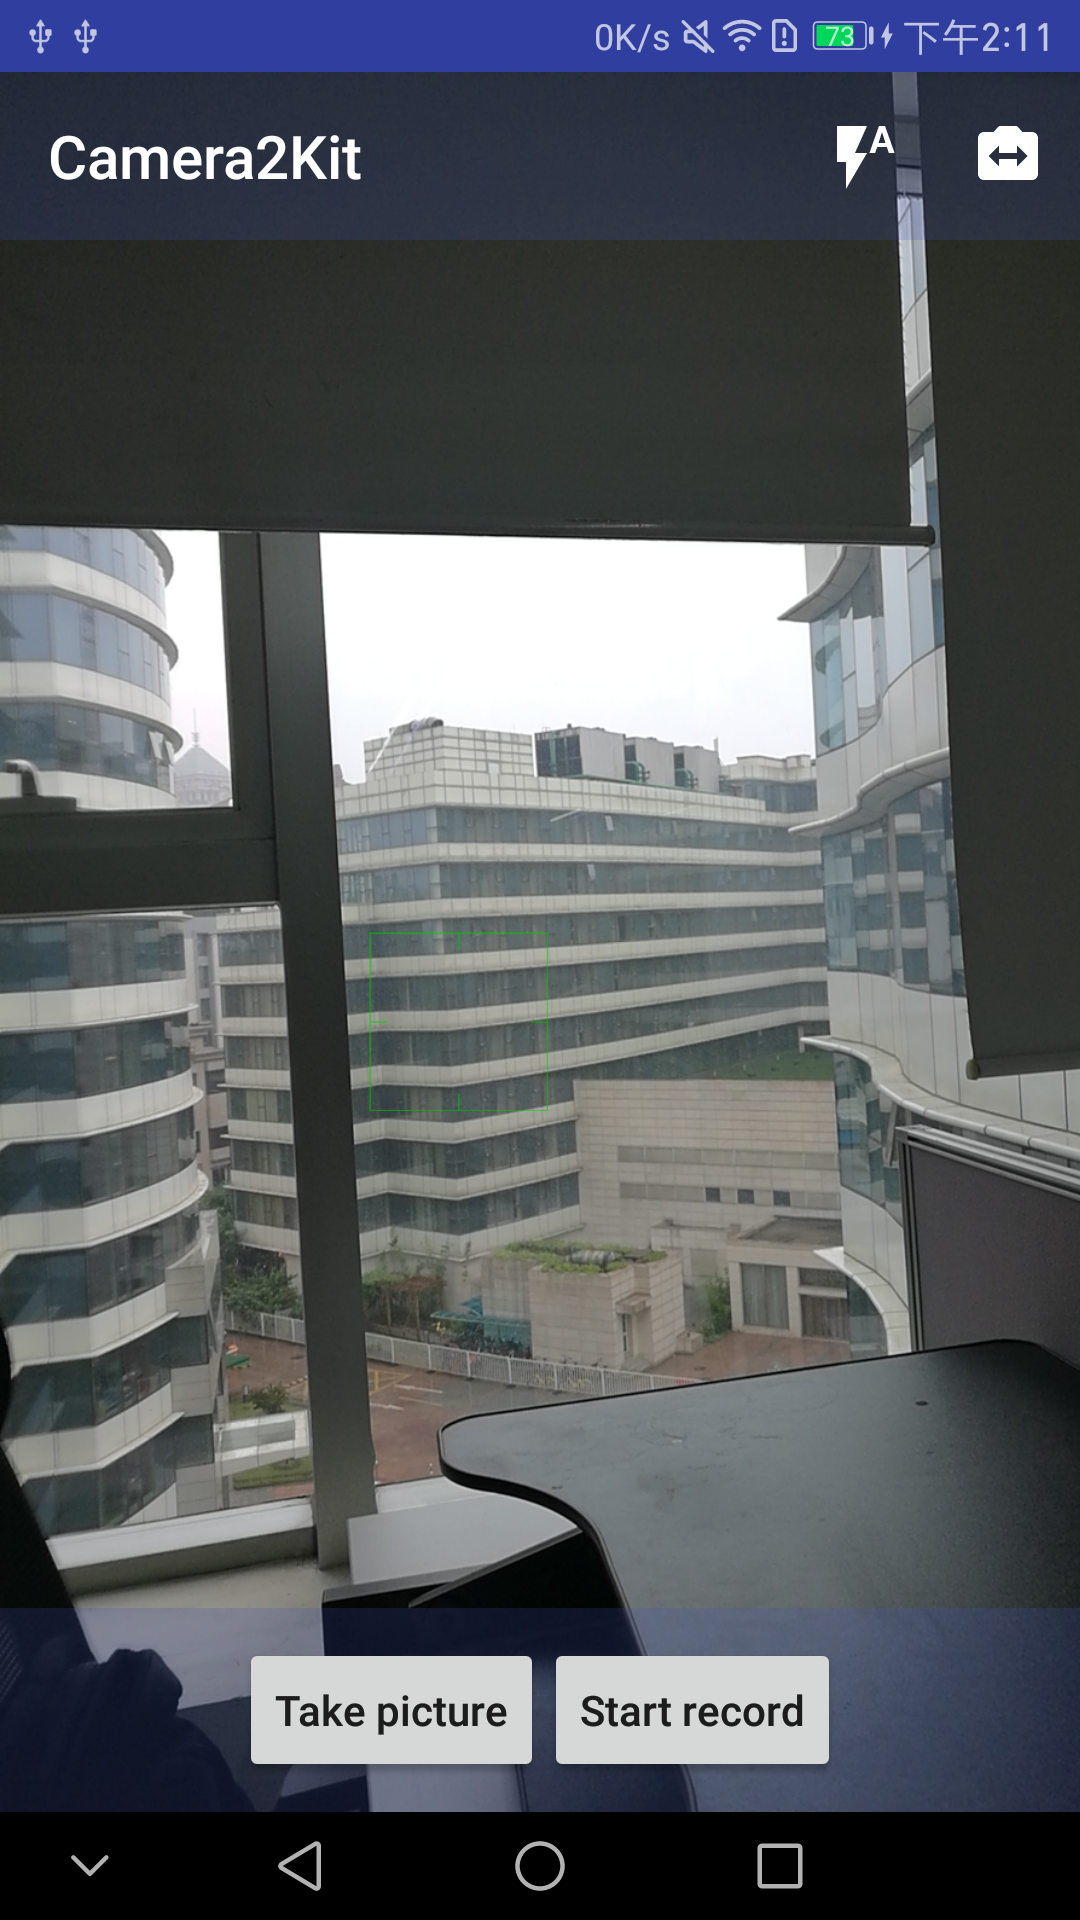
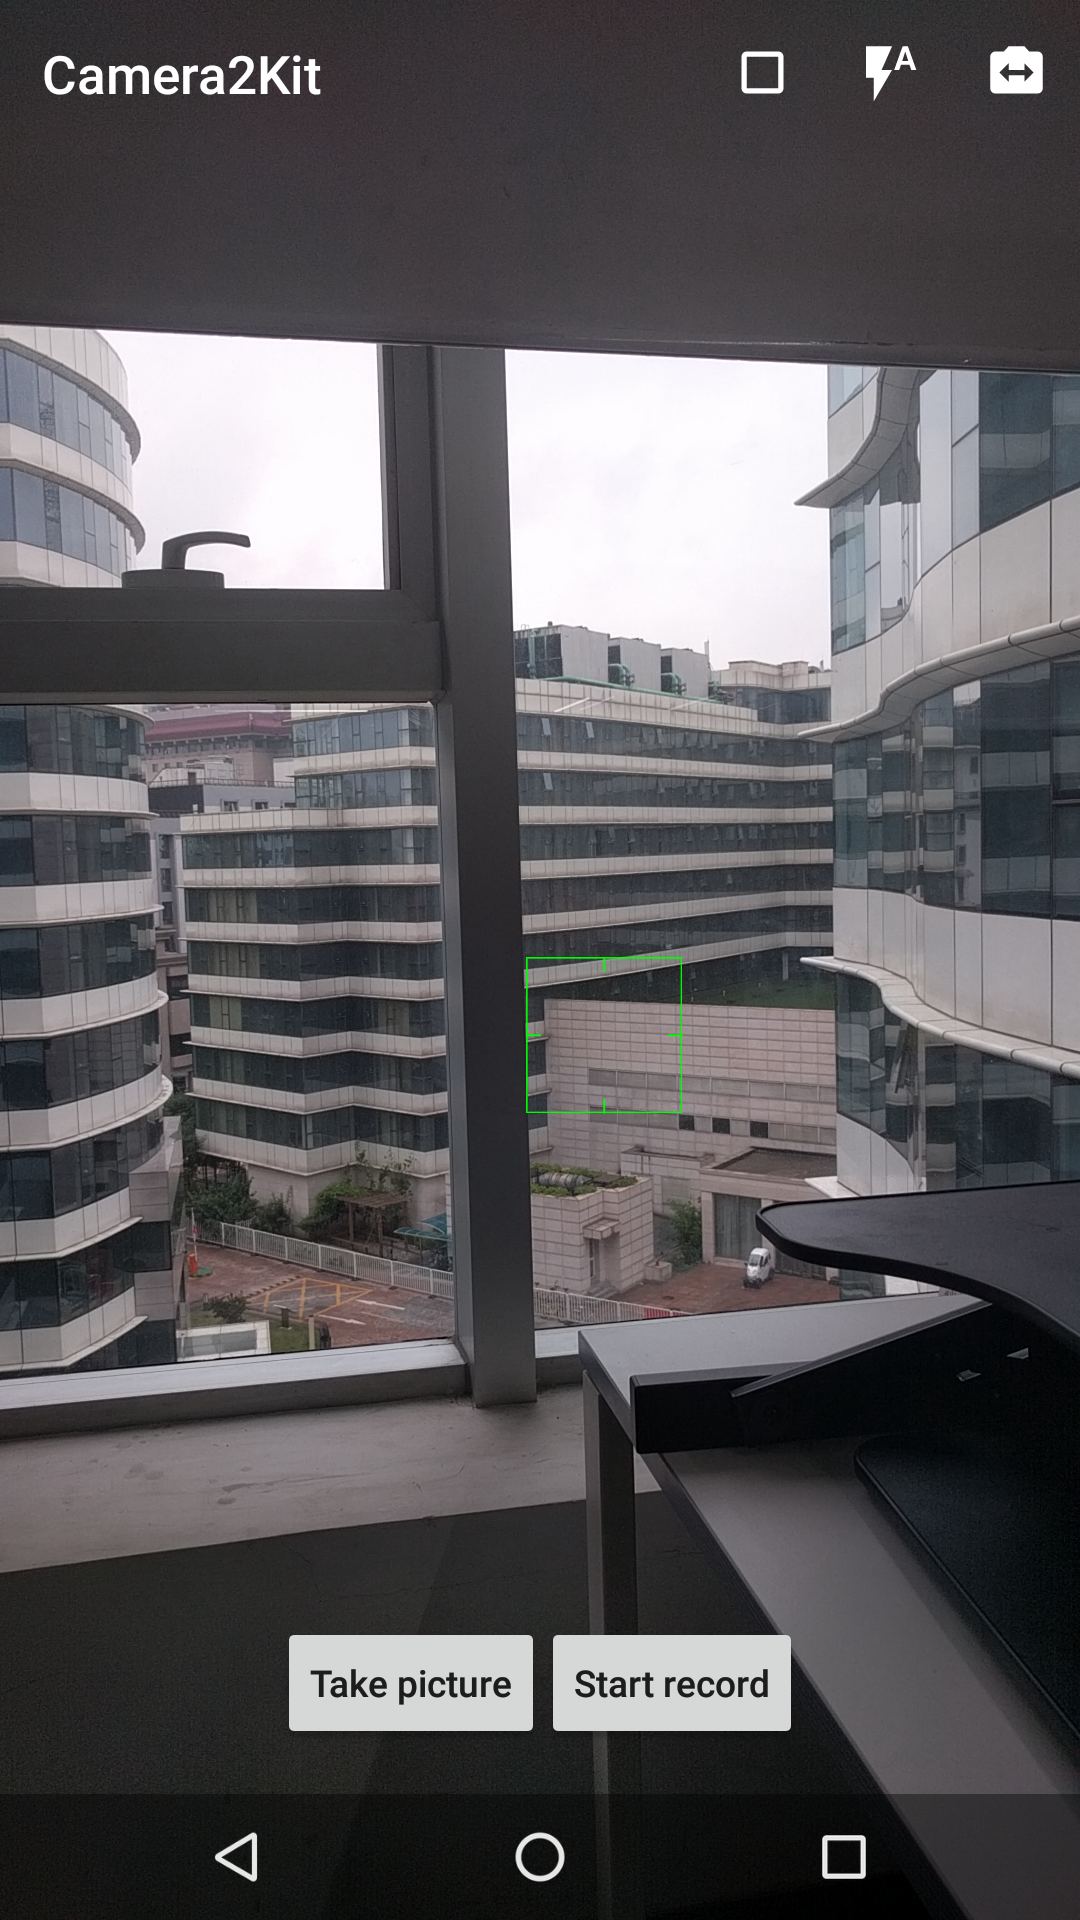
Add manual control aspect ratios

diff --git a/app/src/main/java/cn/lytcom/camera2kit/AspectRatioFragment.java b/app/src/main/java/cn/lytcom/camera2kit/AspectRatioFragment.java
@@ -1,0 +1,130 @@
+package cn.lytcom.camera2kit;
+
+import android.app.Dialog;
+import android.content.Context;
+import android.content.DialogInterface;
+import android.os.Bundle;
+import android.support.annotation.NonNull;
+import android.support.v4.app.DialogFragment;
+import android.support.v7.app.AlertDialog;
+import android.view.LayoutInflater;
+import android.view.View;
+import android.view.ViewGroup;
+import android.widget.BaseAdapter;
+import android.widget.TextView;
+
+import java.util.Arrays;
+import java.util.Set;
+
+
+/**
+ * A simple dialog that allows user to pick an aspect ratio.
+ */
+public class AspectRatioFragment extends DialogFragment {
+
+    private static final String ARG_ASPECT_RATIOS = "aspect_ratios";
+    private static final String ARG_CURRENT_ASPECT_RATIO = "current_aspect_ratio";
+
+    private AspectRatioListener mListener;
+
+    public static AspectRatioFragment newInstance(Set<AspectRatio> ratios,
+                                                  AspectRatio currentRatio) {
+        final AspectRatioFragment fragment = new AspectRatioFragment();
+        final Bundle args = new Bundle();
+        args.putParcelableArray(ARG_ASPECT_RATIOS,
+            ratios.toArray(new AspectRatio[ratios.size()]));
+        args.putParcelable(ARG_CURRENT_ASPECT_RATIO, currentRatio);
+        fragment.setArguments(args);
+        return fragment;
+    }
+
+    @Override
+    public void onAttach(Context context) {
+        super.onAttach(context);
+        mListener = (AspectRatioListener) context;
+    }
+
+    @Override
+    public void onDetach() {
+        mListener = null;
+        super.onDetach();
+    }
+
+    @NonNull
+    @Override
+    public Dialog onCreateDialog(Bundle savedInstanceState) {
+        final Bundle args = getArguments();
+        final AspectRatio[] ratios = (AspectRatio[]) args.getParcelableArray(ARG_ASPECT_RATIOS);
+        if (ratios == null) {
+            throw new RuntimeException("No ratios");
+        }
+        Arrays.sort(ratios);
+        final AspectRatio current = args.getParcelable(ARG_CURRENT_ASPECT_RATIO);
+        final AspectRatioAdapter adapter = new AspectRatioAdapter(ratios, current);
+        return new AlertDialog.Builder(getActivity())
+            .setAdapter(adapter, new DialogInterface.OnClickListener() {
+                @Override
+                public void onClick(DialogInterface dialog, int position) {
+                    mListener.onAspectRatioSelected(ratios[position]);
+                }
+            })
+            .create();
+    }
+
+    private static class AspectRatioAdapter extends BaseAdapter {
+
+        private final AspectRatio[] mRatios;
+        private final AspectRatio mCurrentRatio;
+
+        AspectRatioAdapter(AspectRatio[] ratios, AspectRatio current) {
+            mRatios = ratios;
+            mCurrentRatio = current;
+        }
+
+        @Override
+        public int getCount() {
+            return mRatios.length;
+        }
+
+        @Override
+        public AspectRatio getItem(int position) {
+            return mRatios[position];
+        }
+
+        @Override
+        public long getItemId(int position) {
+            return getItem(position).hashCode();
+        }
+
+        @Override
+        public View getView(int position, View view, ViewGroup parent) {
+            AspectRatioAdapter.ViewHolder holder;
+            if (view == null) {
+                view = LayoutInflater.from(parent.getContext())
+                    .inflate(android.R.layout.simple_list_item_1, parent, false);
+                holder = new AspectRatioAdapter.ViewHolder();
+                holder.text = (TextView) view.findViewById(android.R.id.text1);
+                view.setTag(holder);
+            } else {
+                holder = (AspectRatioAdapter.ViewHolder) view.getTag();
+            }
+            AspectRatio ratio = getItem(position);
+            StringBuilder sb = new StringBuilder(ratio.toString());
+            if (ratio.equals(mCurrentRatio)) {
+                sb.append(" *");
+            }
+            holder.text.setText(sb);
+            return view;
+        }
+
+        private static class ViewHolder {
+            TextView text;
+        }
+
+    }
+
+    public interface AspectRatioListener {
+        void onAspectRatioSelected(@NonNull AspectRatio ratio);
+    }
+
+}

diff --git a/app/src/main/java/cn/lytcom/camera2kit/MainActivity.java b/app/src/main/java/cn/lytcom/camera2kit/MainActivity.java
@@ -2,6 +2,8 @@ package cn.lytcom.camera2kit;
 
 import android.graphics.Color;
 import android.os.Bundle;
+import android.support.annotation.NonNull;
+import android.support.v4.app.FragmentManager;
 import android.support.v7.app.AppCompatActivity;
 import android.support.v7.widget.Toolbar;
 import android.view.Menu;
@@ -11,8 +13,14 @@ import android.view.WindowManager;
 import android.widget.Button;
 import android.widget.LinearLayout;
 import android.widget.RelativeLayout;
+import android.widget.Toast;
 
-public class MainActivity extends AppCompatActivity implements View.OnClickListener {
+import java.util.Set;
+
+public class MainActivity extends AppCompatActivity
+    implements View.OnClickListener, AspectRatioFragment.AspectRatioListener {
+
+    private static final String FRAGMENT_DIALOG = "aspect_dialog";
 
     private static final int[] FLASH_OPTIONS = {
         CameraConstants.FLASH_AUTO,
@@ -91,6 +99,15 @@ public class MainActivity extends AppCompatActivity implements View.OnClickListe
     @Override
     public boolean onOptionsItemSelected(MenuItem item) {
         switch (item.getItemId()) {
+            case R.id.aspect_ratio:
+                FragmentManager fragmentManager = getSupportFragmentManager();
+                if (fragmentManager.findFragmentByTag(FRAGMENT_DIALOG) == null) {
+                    final Set<AspectRatio> ratios = mCamera2Fragment.getSupportedAspectRatios();
+                    final AspectRatio currentRatio = mCamera2Fragment.getAspectRatio();
+                    AspectRatioFragment.newInstance(ratios, currentRatio)
+                        .show(fragmentManager, FRAGMENT_DIALOG);
+                }
+                return true;
             case R.id.switch_flash:
                 mCurrentFlashIndex = (mCurrentFlashIndex + 1) % FLASH_OPTIONS.length;
                 item.setTitle(FLASH_TITLES[mCurrentFlashIndex]);
@@ -111,9 +128,11 @@ public class MainActivity extends AppCompatActivity implements View.OnClickListe
     @Override
     public boolean onPrepareOptionsMenu(Menu menu) {
         if (mCamera2Fragment.isRecordingVideo()) {
+            menu.findItem(R.id.aspect_ratio).setVisible(false);
             menu.findItem(R.id.switch_camera).setVisible(false);
             menu.findItem(R.id.switch_flash).setVisible(false);
         } else {
+            menu.findItem(R.id.aspect_ratio).setVisible(true);
             menu.findItem(R.id.switch_camera)
                 .setVisible(mCamera2Fragment.isFacingSupported());
             menu.findItem(R.id.switch_flash)
@@ -145,5 +164,11 @@ public class MainActivity extends AppCompatActivity implements View.OnClickListe
                 break;
             }
         }
+    }
+
+    @Override
+    public void onAspectRatioSelected(@NonNull AspectRatio ratio) {
+        Toast.makeText(this, ratio.toString(), Toast.LENGTH_SHORT).show();
+        mCamera2Fragment.setAspectRatio(ratio);
     }
 }

diff --git a/app/src/main/java/cn/lytcom/camera2kit/Camera2Fragment.java b/app/src/main/java/cn/lytcom/camera2kit/Camera2Fragment.java
@@ -1044,6 +1044,19 @@ public class Camera2Fragment extends Fragment implements FragmentCompat.OnReques
         return mAspectRatio;
     }
 
+    public boolean setAspectRatio(AspectRatio aspectRatio) {
+        if (aspectRatio == null || aspectRatio.equals(mAspectRatio) ||
+            !mPreviewSizes.ratios().contains(aspectRatio)) {
+            return false;
+        }
+        mAspectRatio = aspectRatio;
+        if (isCameraOpened()) {
+            stop();
+            start();
+        }
+        return true;
+    }
+
     public boolean isCameraOpened() {
         return mCameraDevice != null;
     }

diff --git a/README.md b/README.md
@@ -3,7 +3,7 @@ A android sample use camera2 to take picture and record video in one fragment.
 
 - Fix some issues and optimize code over the google samples.
 - Add support for manual tap to focus.
-- Add control for set flash and switch back/front camera.
+- Add control for aspect ratio and flash, switch back/front camera.
 
 
 
@@ -15,6 +15,7 @@ A android sample use camera2 to take picture and record video in one fragment.
 
 ## Thanks
 
+- [google  cameraview](https://github.com/google/cameraview)
 - [googlesamples  android-Camera2Basic](https://github.com/googlesamples/android-Camera2Basic)
 - [googlesamples  android-Camera2Video](https://github.com/googlesamples/android-Camera2Video)
 
